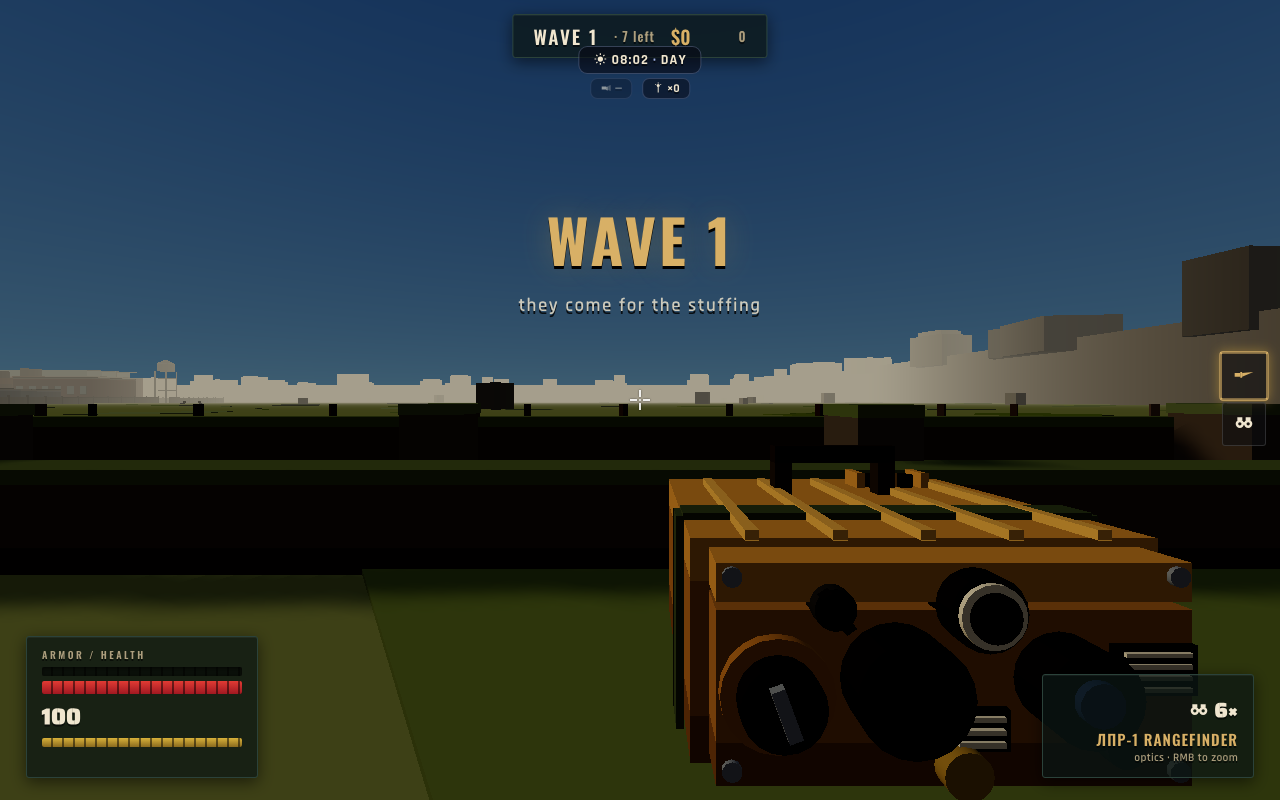
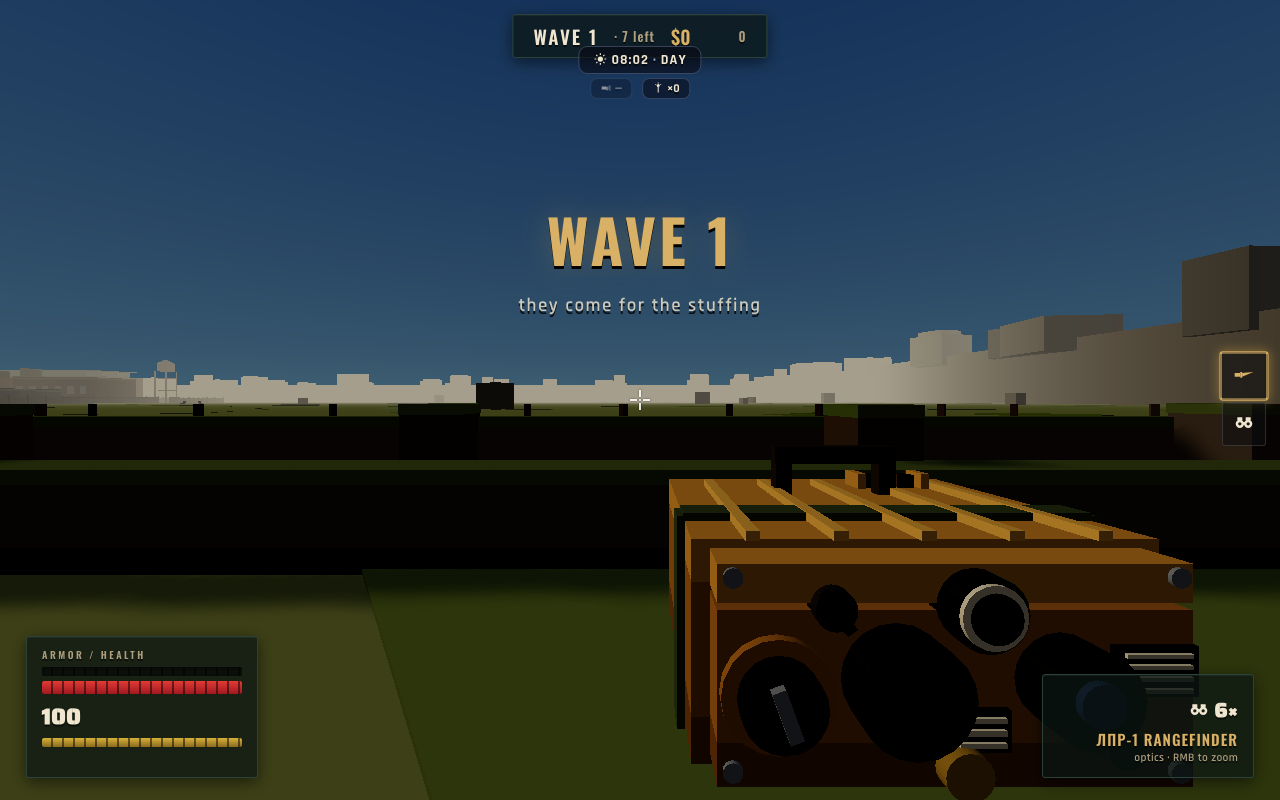
feat(lpr1): measurement sounds + ПОДСВ night reticle illumination
- lprPulse: ИЗМЕРЕНИЕ relay click + capacitor whine rising through the
  cycle; lprReady: soft double beep when the готовность lamp relights
  (procedural Web Audio, ctx-guarded like every other sound)
- ПОДСВ: after dark (worldclock isNight) the vizír reticle glows warm
  red — lamp + fibre-bundle illumination per the manual; verified
  headless (renders/lpr-ingame-night.png)

diff --git a/src/weapons.js b/src/weapons.js
@@ -5,6 +5,7 @@ import { MOLO_GRAV, MOLO_HAND_FUSE, MOLO_IGNITE_T, MOLO_MAX_FLIGHT, MOLO_PROJ_R,
 import { _strut } from './props.js';
 import { WEAPON_LAYER } from './engine.js';
 import { CALIBERS, resolveHit } from './destruct.js';
+import { isNight } from './worldclock.js';
 
 // ── ?map=demo destruction wiring (Phase 9) ─────────────────────────────────────
 // Map a gameplay weapon class → destruction PENETRATION class (spec §5 hardness tiers).
@@ -1591,14 +1592,14 @@ export class WeaponSystem {
     const dist = Math.min(wHit ? wHit.dist : Infinity, eHit ? eHit.dist : Infinity);
     // 145 m strobe floor / 20 km counter capacity (ТТХ row 1) — outside that the display shows zeros (no echo)
     this.lprValue = (isFinite(dist) && dist >= 145 && dist <= 20000) ? Math.round(dist) : 0;
-    this.game.audio.reloadClick();                    // ИЗМЕРЕНИЕ button click
+    this.game.audio.lprPulse();                       // ИЗМЕРЕНИЕ click + capacitor whine
   }
 
   update(dt) {
     if (this.cooldown > 0) this.cooldown -= dt;
     if (this._boltLock > 0) this._boltLock -= dt;
     if (this.grenadeCD > 0) this.grenadeCD -= dt;
-    if (this.lprCD > 0) this.lprCD -= dt;
+    if (this.lprCD > 0) { this.lprCD -= dt; if (this.lprCD <= 0 && this.cur === 'lpr1') this.game.audio.lprReady(); } // готовность beep on the relight edge
     if (this.molotovCD > 0) this.molotovCD -= dt;
     if (this._swing > 0) this._swing -= dt;
     if (this.reloading > 0) {
@@ -1624,7 +1625,10 @@ export class WeaponSystem {
     this.fov = damp(this.fov, targetFov, 16, dt);
     this.game.engine.setFov(this.fov);
     this.game.hud.setScope(this.ads && d.scope, d.shape);
-    if (this.game.hud.setLpr) this.game.hud.setLpr(this.ads && d.rangefinder ? { ready: this.lprCD <= 0, value: this.lprValue } : null);
+    if (this.game.hud.setLpr) {
+      const night = this.game._worldClock ? isNight(this.game._worldClock.minuteOfDay()) : false; // ПОДСВ: reticle lamp comes on after dark
+      this.game.hud.setLpr(this.ads && d.rangefinder ? { ready: this.lprCD <= 0, value: this.lprValue, night } : null);
+    }
 
     // viewmodel bob/sway/recoil/swing
     const pl = this.game.player;

diff --git a/src/audio.js b/src/audio.js
@@ -618,6 +618,30 @@ export class AudioManager {
 
   uiClick() { this.tone(660, 0.04, 'square', 0.25); }
   uiHover() { this.tone(880, 0.02, 'sine', 0.12); }
+  // ЛПР-1 «Каралон-М»: ИЗМЕРЕНИЕ button press — relay click + a quiet capacitor-bank
+  // whine rising through the first second of the 5 s ranging cycle.
+  lprPulse() {
+    if (!this.ctx) return;
+    this.reloadClick();
+    const t = this.t, o = this.ctx.createOscillator(), g = this.ctx.createGain();
+    o.type = 'sine';
+    o.frequency.setValueAtTime(880, t); o.frequency.exponentialRampToValueAtTime(2350, t + 1.05);
+    g.gain.setValueAtTime(0.0001, t); g.gain.exponentialRampToValueAtTime(0.045, t + 0.12); g.gain.exponentialRampToValueAtTime(0.0001, t + 1.15);
+    o.connect(g); g.connect(this.sfxGain);
+    o.start(t); o.stop(t + 1.2);
+  }
+  // ЛПР-1: готовность lamp relights — soft rising double beep from the indicator eyepiece.
+  lprReady() {
+    if (!this.ctx) return;
+    const t = this.t;
+    for (const [dt, f] of [[0, 1560], [0.09, 2080]]) {
+      const o = this.ctx.createOscillator(), g = this.ctx.createGain();
+      o.type = 'sine'; o.frequency.value = f;
+      g.gain.setValueAtTime(0.0001, t + dt); g.gain.exponentialRampToValueAtTime(0.16, t + dt + 0.012); g.gain.exponentialRampToValueAtTime(0.0001, t + dt + 0.07);
+      o.connect(g); g.connect(this.sfxGain);
+      o.start(t + dt); o.stop(t + dt + 0.12);
+    }
+  }
   buy() { this.tone(720, 0.06, 'square', 0.3); this.tone(960, 0.06, 'square', 0.25); }
   noMoney() { this.tone(160, 0.12, 'sawtooth', 0.3); }
 

diff --git a/src/ui.js b/src/ui.js
@@ -180,11 +180,12 @@ export class HUD {
   setLpr(st) {
     if (!this.el.lprdigits) return;
     if (!st) { this._lprLast = null; return; }      // overlay hidden — nothing to paint
-    const key = st.ready + ':' + st.value;
+    const key = st.ready + ':' + st.value + ':' + st.night;
     if (this._lprLast === key) return;              // imperative DOM — only write on change
     this._lprLast = key;
     this.el.lprdigits.textContent = st.value == null ? '' : String(Math.min(99999, Math.max(0, st.value))).padStart(5, '0');
     this.el.lprready.classList.toggle('on', !!st.ready);
+    if (this.el.lprview) this.el.lprview.classList.toggle('night', !!st.night); // ПОДСВ — сетка lamp after dark
   }
   setBoss(frac, name) { this.el.bossbar.classList.add('show'); this.el.bossfill.style.width = clamp(frac, 0, 1) * 100 + '%'; if (name) this.el.bossname.textContent = name; }
   setBossPip(frac) {

diff --git a/index.html b/index.html
@@ -161,6 +161,8 @@
     #lprready.on { background: #2ee04a; box-shadow: 0 0 1.4vmin rgba(46,224,74,.9); }
     #lprhint { position: absolute; left: 50%; bottom: 7vh; transform: translateX(-50%); font: 600 1.7vmin/1 monospace;
                color: rgba(214,180,120,.5); letter-spacing: .3vmin; }
+    /* ПОДСВ — night illumination of the сетка (lamp + fibre bundle): the reticle glows warm red after dark */
+    #lprview.night #lprreticle { stroke: #ff4f2e; opacity: 1; filter: drop-shadow(0 0 .5vmin rgba(255,79,46,.85)); }
 
     /* ННП-23 «Резчик» (1ПН54) observation-post overlay — single eyepiece circle, ПСО-style
        reticle (owner reference image; true drawing in dossier needs[]), phosphor noise + green
